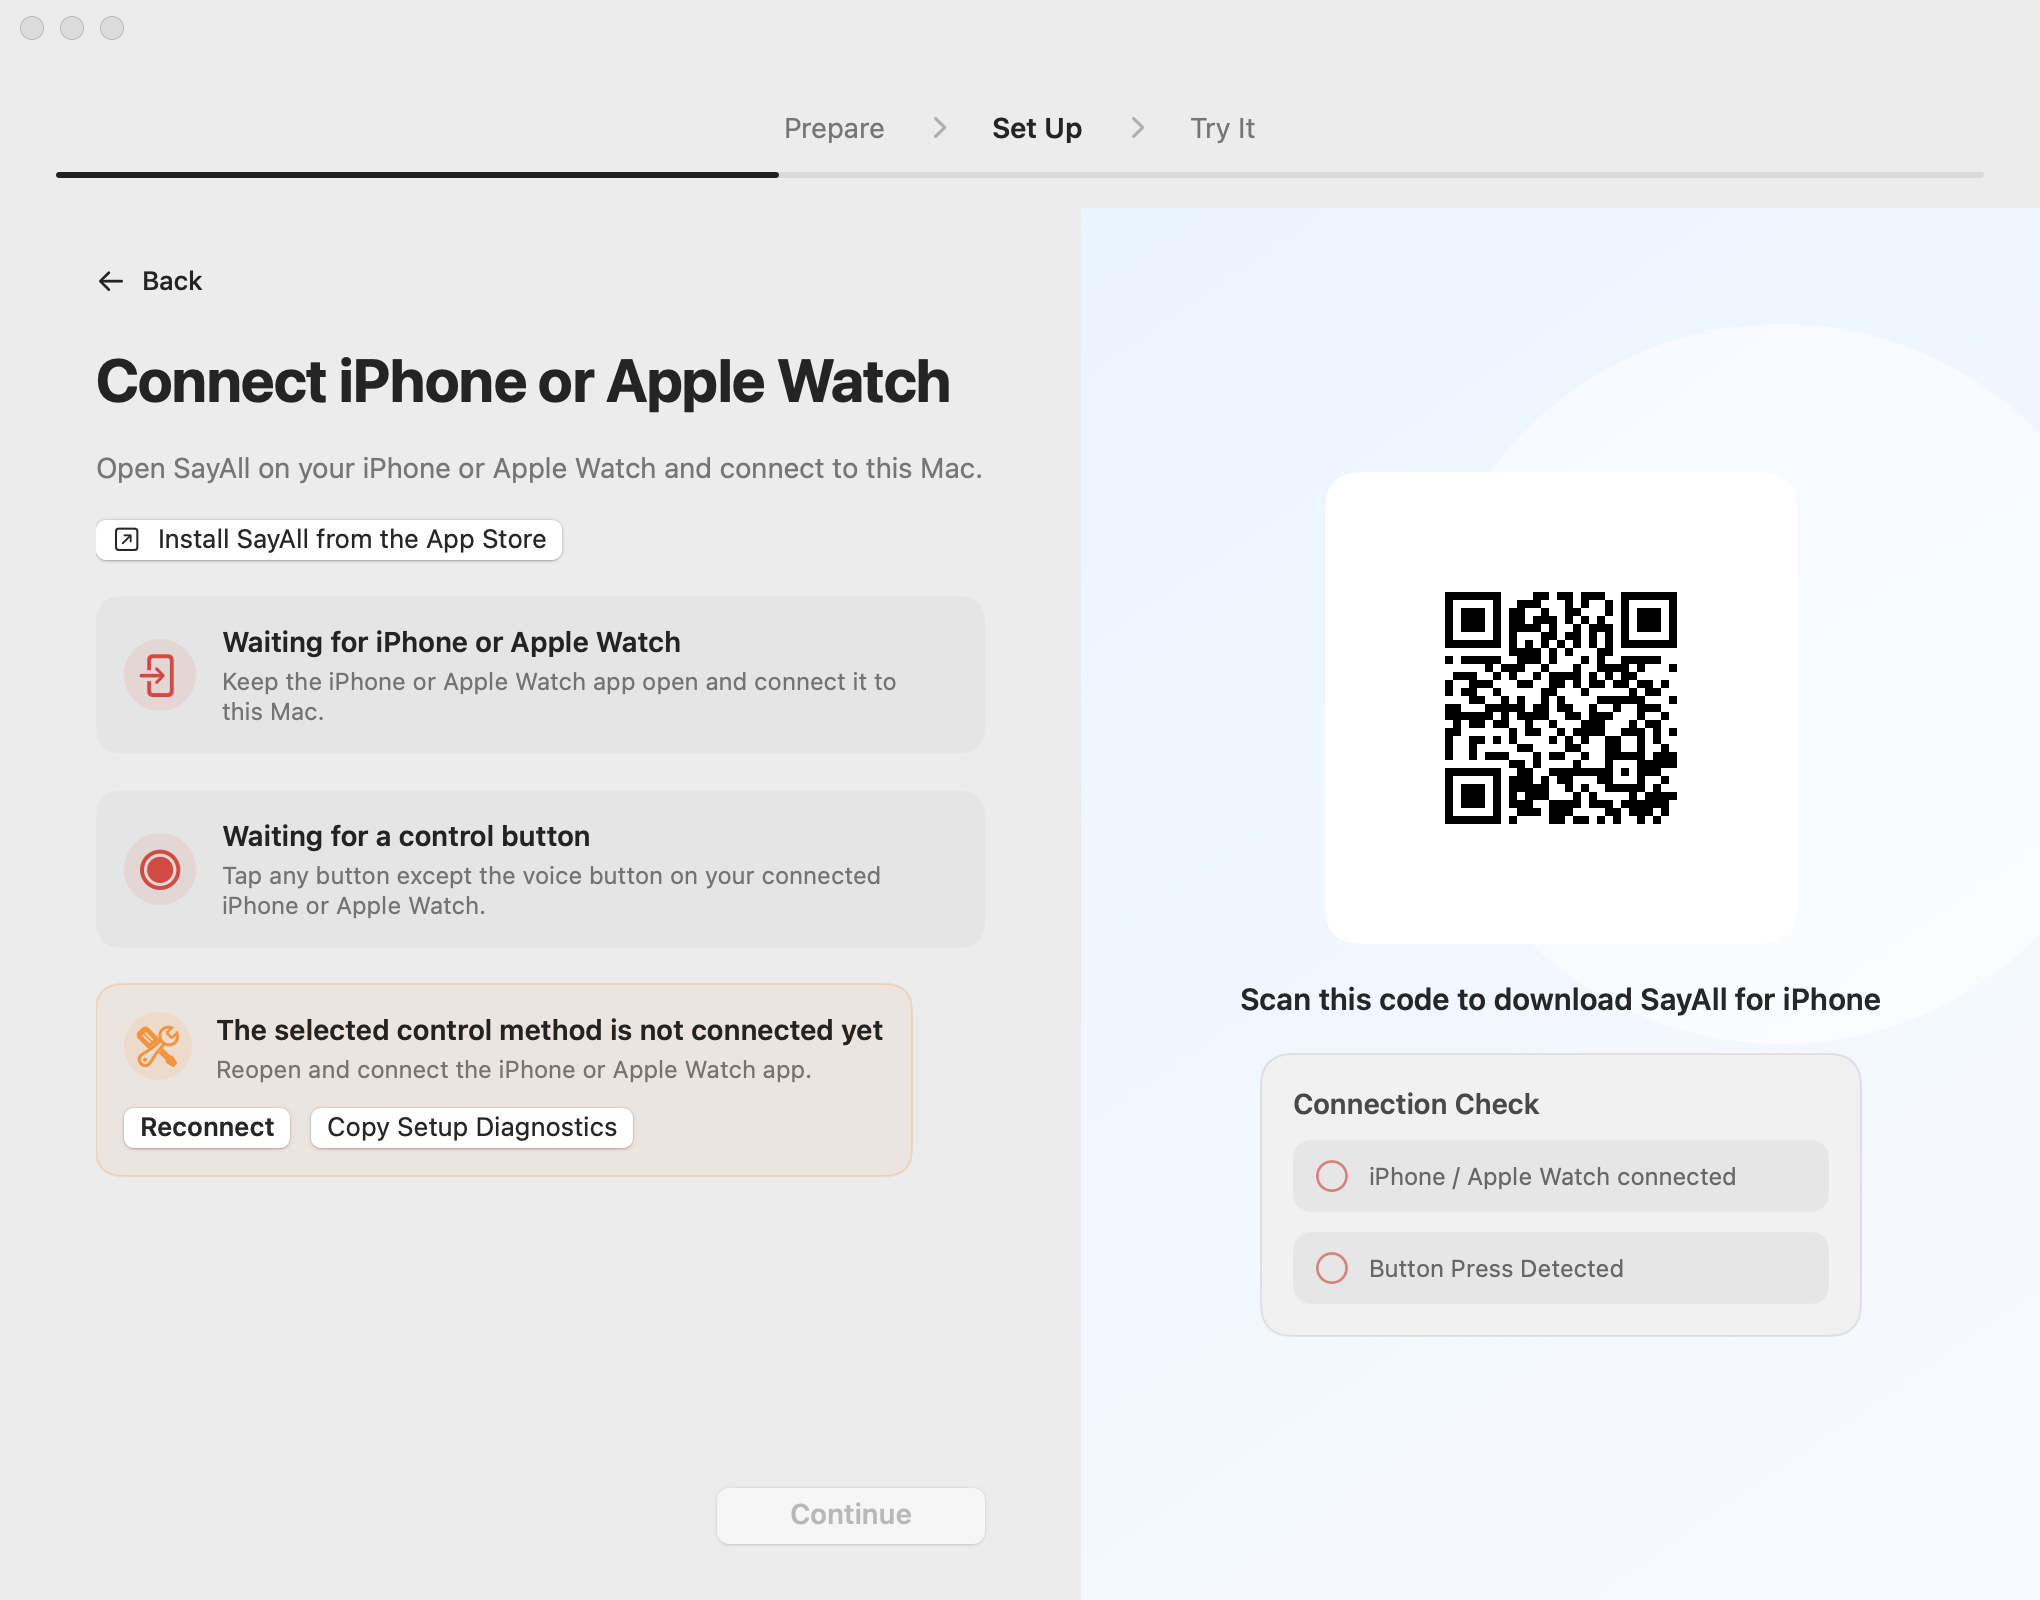
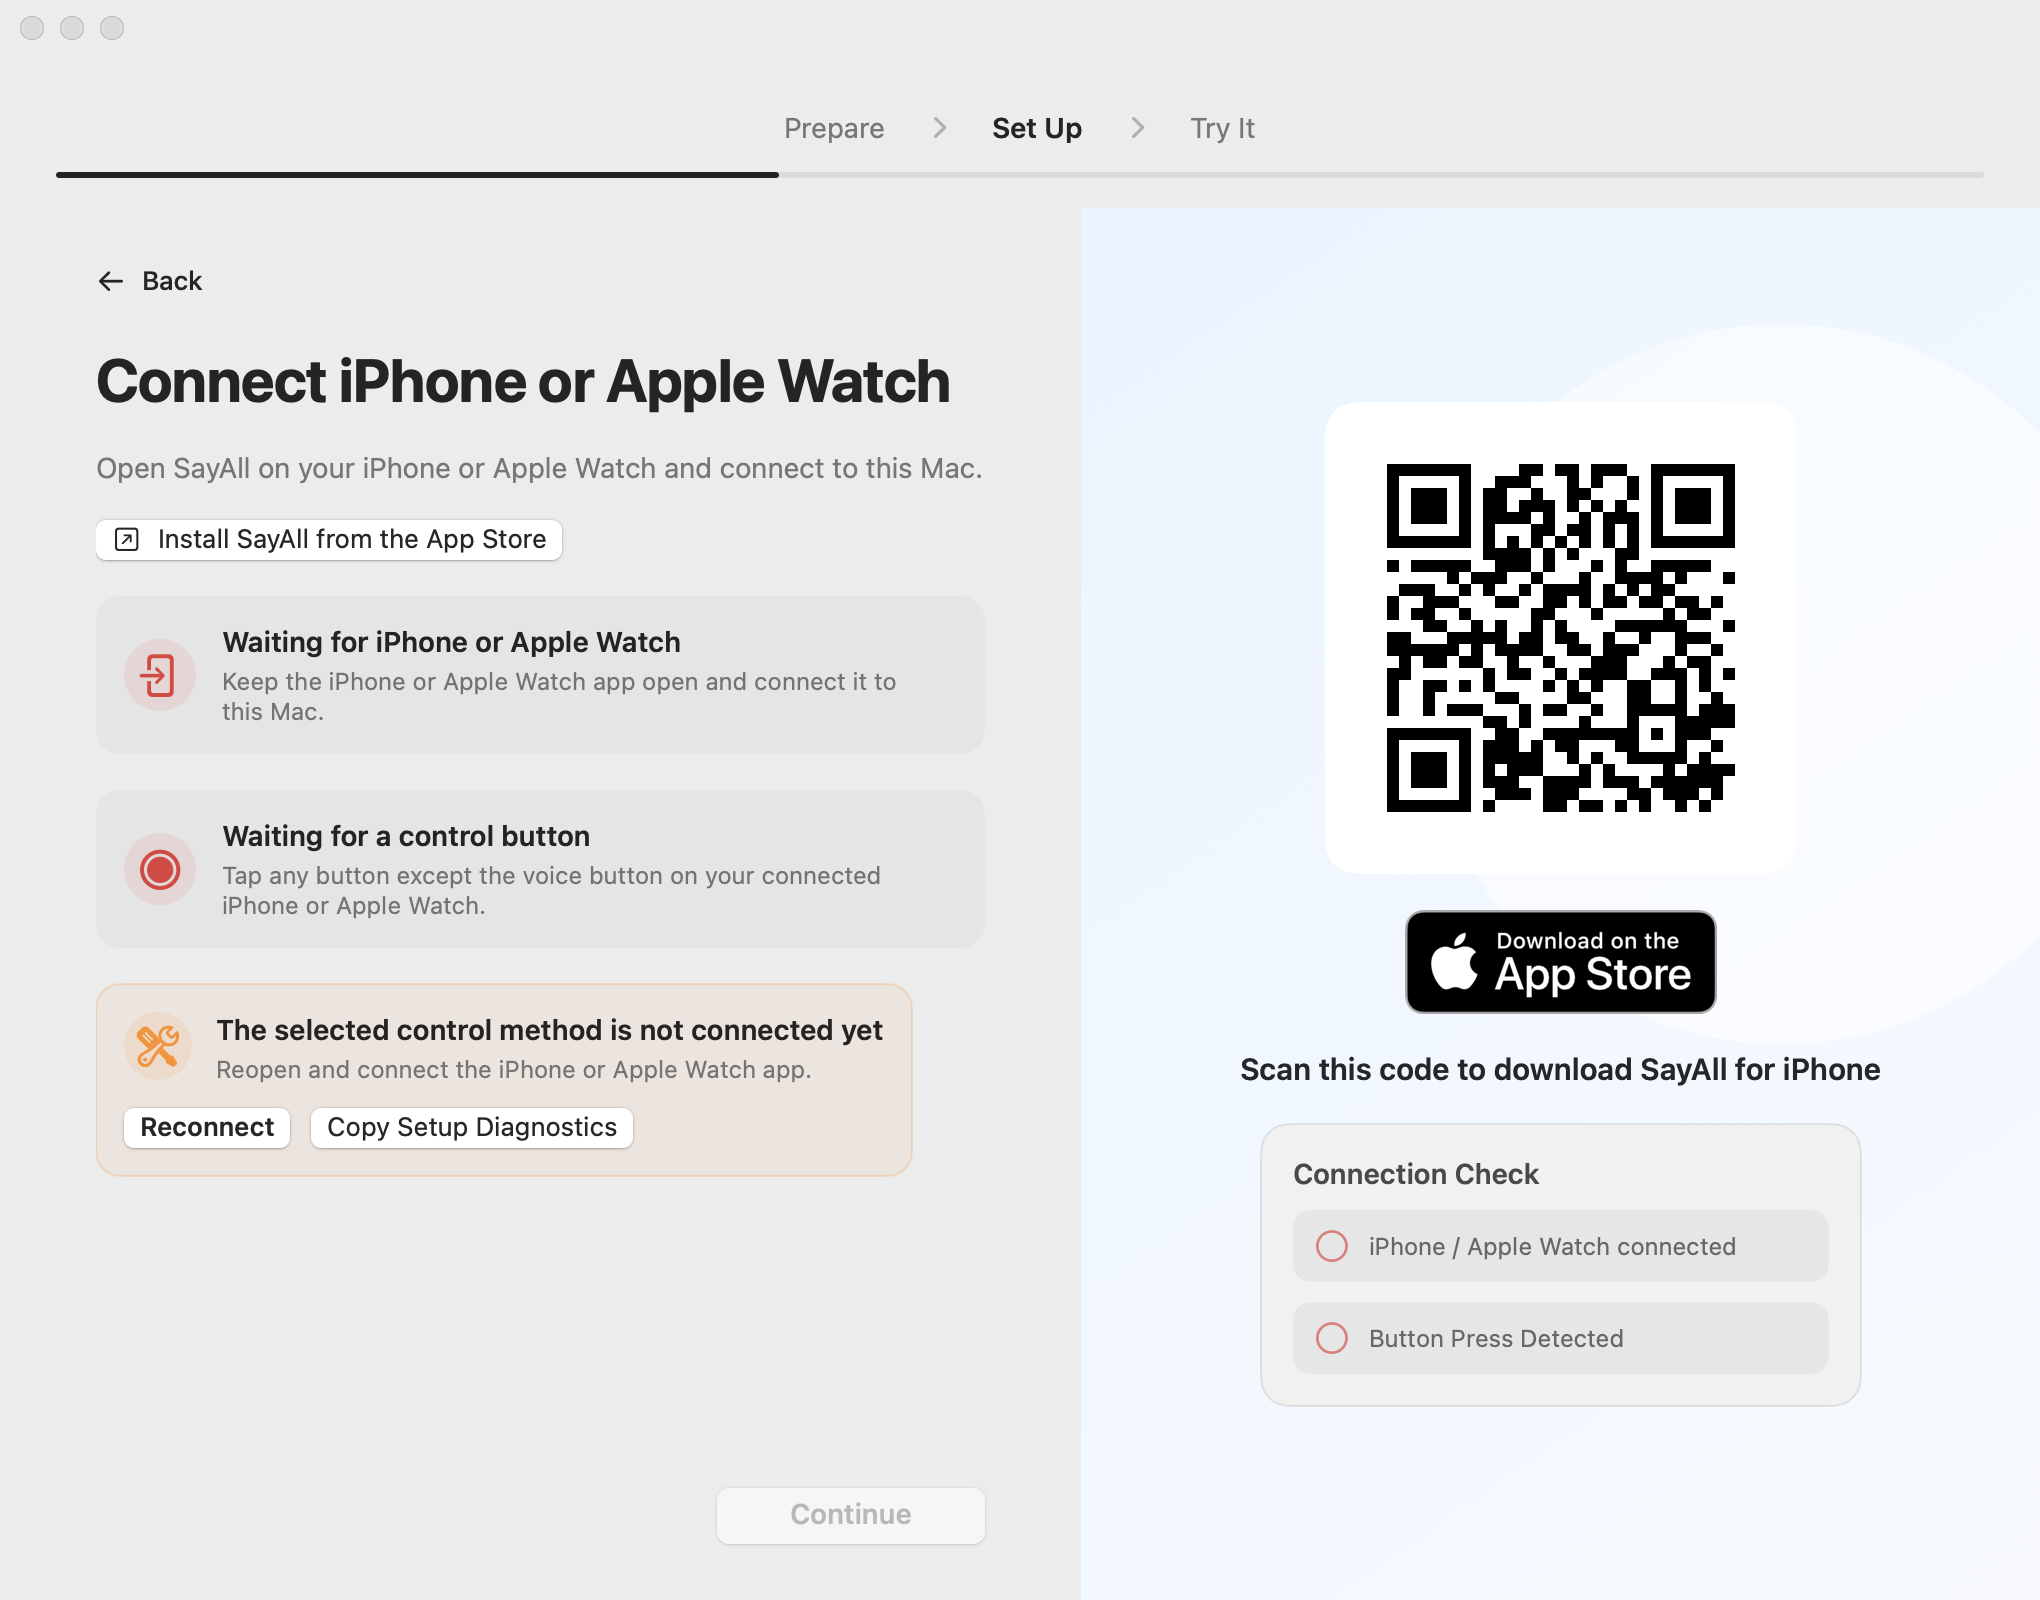
docs(onboarding): refresh iPhone QR screenshots and badge evidence

Changed region(s): [[0.6794, 0.2812, 0.8647, 0.5312], [0.6176, 0.5625, 0.9265, 0.75], [0.6176, 0.7812, 0.8956, 0.875]]

diff --git a/Testing/FirstRunOnboarding.md b/Testing/FirstRunOnboarding.md
@@ -28,28 +28,34 @@
 
 ## 2026-10-23 iPhone 右栏 App Store 下载二维码回归
 
-适用分支：`codex/onboarding-appstore-qr`。本次只把 iPhone 连接页右栏的占位内容替换为随包交付的 App Store 下载二维码，并补充对应中英文说明文案；不改动流程、能力门禁、权限、连接、音频、持久化和左栏 App Store 入口。
+适用分支：`codex/onboarding-appstore-qr`。本次把 iPhone 连接页右栏的占位内容替换为随包交付的 App Store 下载二维码，二维码下方加入 Apple 官方 App Store 徽章，并补充对应中英文说明文案；不改动流程、能力门禁、权限、连接、音频、持久化和左栏 App Store 入口。
 
 变更分类：局部截图渲染与文案变化，不改变用户旅程和门禁判定，因此按定向验证执行，覆盖受影响来源、语言和外观，并做构建与生产清单一致性检查。
+
+二维码静区为约 2 个模块（生成画布 440 × 440，模块整数倍缩放，余量平分到四周）。不要把静区调回 10 个模块以上：过大的白边会让 220pt 显示尺寸下的二维码明显缩小，这也是本次修复的原始问题。
 
 ### 自动化与构建
 
 - `swift build --disable-keychain --disable-sandbox` 公开构建通过。
 - `swift test --disable-keychain --disable-sandbox --filter OnboardingFlowTests`：76 项通过。
 - `swift test --disable-keychain --disable-sandbox --filter LocalizationTests`：8 项通过，中英文 key 集合一致。
-- 生产清单一致性：`scripts/build-app.sh` 以 `ditto` 整目录拷贝 `Resources/Onboarding`，`scripts/verify-app.sh` 逐个校验该目录下的 PNG 出现在 App bundle 中；新增两张 PNG 无需修改打包脚本。
+- 生产清单一致性：`scripts/build-app.sh` 以 `ditto` 整目录拷贝 `Resources/Onboarding`，`scripts/verify-app.sh` 逐个校验该目录下的 PNG 出现在 App bundle 中；本次新增 6 张 PNG 无需修改打包脚本。
 
 ### 生产页面检查
 
 1. 公开构建选择 iPhone 来源，进入连接页，确认右栏显示 App Store 下载二维码，白色衬底完整，图片不被裁切或拉伸。
-2. 中文确认二维码下方文案为“扫描二维码下载 iPhone 无线麦 SayAll App”，英文确认为“Scan this code to download SayAll for iPhone”。
-3. 用二维码扫描工具核对内容：中文指向 `https://apps.apple.com/app/%E6%97%A0%E7%BA%BF%E9%BA%A6/id6797208067`，英文指向 `https://apps.apple.com/app/sayall/id6797208067`，与左栏“从 App Store 安装”入口指向同一链接。
-4. 切换浅色和深色外观，确认深色下二维码仍有白色衬底且对比度足够，中文字号不小于 12pt，右栏内容整体居中不贴顶。
-5. 完整构建进入同一页面，确认右栏仍优先显示当前监听周期的动态配对二维码，静态下载二维码只作为无动态邀请码时的降级显示。
+2. 确认二维码四周白边紧凑：二维码图案与白色卡片边缘的距离应明显小于二维码宽度的十分之一，不能出现大片空白把二维码挤小。
+3. 确认二维码下方显示 Apple 官方 App Store 徽章：中文界面为 black 变体的“App Store 下载”，英文界面为 black 变体的“Download on the App Store”，徽章比例不变形、描边和圆角完整、未被裁切或重新着色。
+4. 中文确认说明文案为“扫描二维码下载 iPhone 无线麦 SayAll App”，英文确认为“Scan this code to download SayAll for iPhone”。
+5. 用二维码扫描工具核对内容：中文指向 `https://apps.apple.com/app/%E6%97%A0%E7%BA%BF%E9%BA%A6/id6797208067`，英文指向 `https://apps.apple.com/app/sayall/id6797208067`，与左栏“从 App Store 安装”入口指向同一链接。
+6. 切换浅色和深色外观，确认深色下二维码仍有白色衬底，徽章切换为 white 变体且文字可辨认，中文字号不小于 12pt，右栏内容整体居中不贴顶。
+7. 完整构建进入同一页面，确认右栏仍优先显示当前监听周期的动态配对二维码，静态下载二维码只作为无动态邀请码时的降级显示。
 
 ### 失败判定与边界
 
 - 右栏空白、没有二维码、显示成 iPhone 插画、二维码内容与语言不匹配、中文界面出现英文二维码或反之、深色下二维码缺少白色衬底且无法识别，均判定失败。
+- 二维码四周仍是大片白边、徽章缺失或显示成自绘图标、徽章被拉伸变形/改色/加边框、浅色外观用了 white 变体或深色外观用了 black 变体导致看不清，均判定失败。
+- 徽章必须使用 Apple 官方 Marketing 资源原样缩放，不得自行重绘或替换为 SF Symbols。
 - 离屏截图和二维码解码只能证明静态界面与链接内容，不能代替真实 App Store 跳转、真实 iPhone 安装与真实扫码连接验收。
 
 ### 截图证据
@@ -58,12 +64,23 @@
 
 | 语言 | 外观 | 文件 | SHA-256 |
 | --- | --- | --- | --- |
[8 lines of base64/hex data omitted]
 
[1 lines of base64/hex data omitted]
+随包交付的静态素材（均位于 `Resources/Onboarding/`，PNG）：
+
+| 文件 | 尺寸 | SHA-256 |
+| --- | --- | --- |
[6 lines of base64/hex data omitted]
+
+二维码由 CoreImage `qrCodeGenerator`（`correctionLevel M`）生成后用 `CIDetector` 回验内容；徽章取自 Apple Marketing Tools 官方 badge 服务（`tools.applemediaservices.com/api/badges/download-on-the-app-store/<black|white>/<en-us|zh-cn>`），SVG 原样栅格化为 480px 宽，不改色、不改比例。
 
 ## 2026-10-19 无屏配置应用定位回归
 
